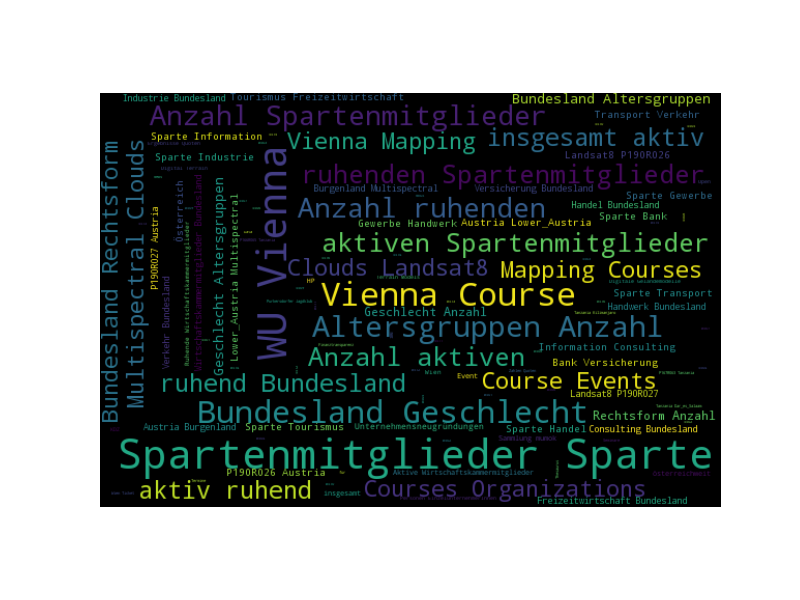
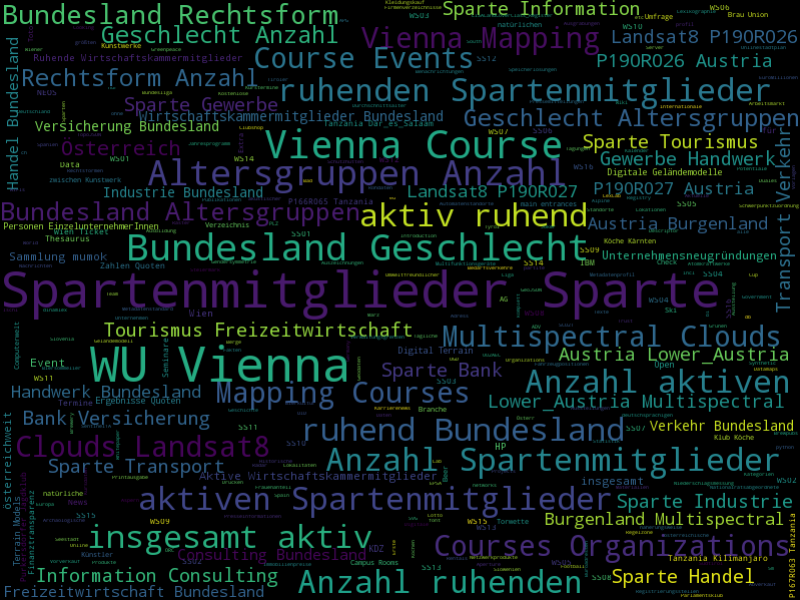
fix: remove margins and enlarge the wordcloud images

diff --git a/generate_wordcloud.py b/generate_wordcloud.py
@@ -21,7 +21,7 @@ def generate_wordcloud(text):
     stopwords = set([x.strip() for x in open('stopwords').read().split('\n')])
     print stopwords
     # Generate a word cloud image
-    wordcloud = WordCloud(stopwords=stopwords, max_font_size=40, max_words=2000, width=600, height=400).generate(text)
+    wordcloud = WordCloud(stopwords=stopwords, max_font_size=50, max_words=2000, width=800, height=600, margin=0).generate(text)
 
     # Display the generated image:
     # the matplotlib way:
@@ -29,12 +29,18 @@ def generate_wordcloud(text):
     plt.imshow(wordcloud)
     plt.axis("off")
 
-    # # lower max_font_size
-    # wordcloud = wordcloud.WordCloud(max_font_size=40).generate(text)
-    # plt.figure()
-    # plt.imshow(wordcloud)
-    # plt.axis("off")
-    plt.show()
+    # display the image
+    # plt.show()
+
+    # save image on disk (+ get rid of the margin trick)
+    plt.gca().set_axis_off()
+    plt.subplots_adjust(top = 1, bottom = 0, right = 1, left = 0, 
+                        hspace = 0, wspace = 0)
+    plt.margins(0,0)
+    import matplotlib.ticker as ticker
+    plt.gca().xaxis.set_major_locator(ticker.NullLocator())
+    plt.gca().yaxis.set_major_locator(ticker.NullLocator())
+    plt.savefig('results.png', bbox_inches='tight', pad_inches=0.0)
 
     # The pil way (if you don't have matplotlib)
     #image = wordcloud.to_image()
